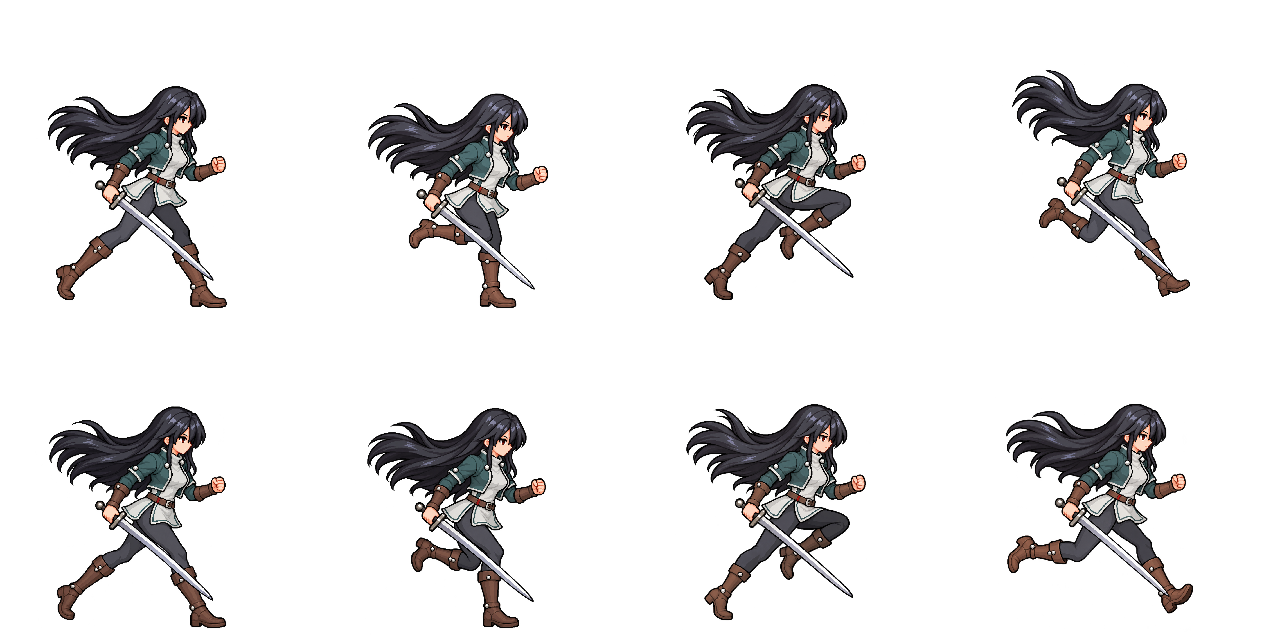
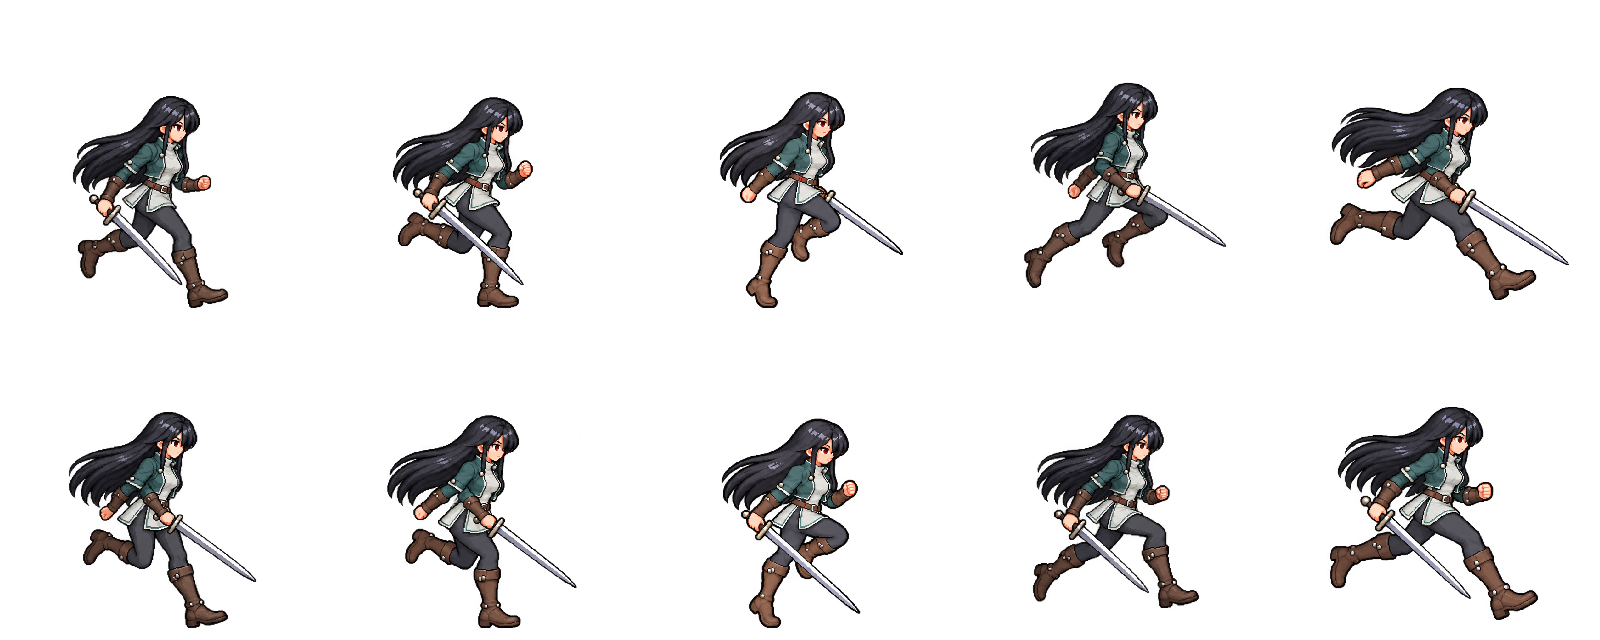
* 애니메이션 수정

diff --git a/ActionRPGClient/Assets/Images/README.md b/ActionRPGClient/Assets/Images/README.md
@@ -26,8 +26,8 @@
 
 확정 외형은 긴 흑발, 청록 재킷, 회백색 튜닉, 짙은 회색 하의, 갈색 가죽과 은색 장식, 한손 장검이다. 기본 인체 높이는 약 170 월드 단위로 기존 남성보다 작게 유지한다. 아래 순서로 한 동작씩 제작·검토한다.
 
-- [x] 걷기 — 4열×2행 8프레임, 10fps·0.8초 반복. 검은 일반 자세처럼 앞쪽 아래로 든다. 4프레임은 왼발 진입, 8프레임은 오른발 진입으로 양발을 교대한다.
-- [x] 달리기 — 4열×2행 8프레임, 약 14.3fps·0.56초 반복. 좌우 착지·지지·무릎 전진·공중 진입을 교대하며 긴 머리가 뒤로 흩날린다.
+- [x] 걷기 — 4열×2행 8프레임·0.60초 반복. 양발 착지·체중 흡수·통과·전진을 교대하고 빈팔은 반대로 흔든다. 검은 앞쪽 아래로 유지한다.
+- [x] 달리기 — 5열×2행 10프레임·0.50초 반복. 각 발의 착지·체중 흡수·발끝 밀기·공중 전환·다음 발 뻗기를 연결하고 팔과 긴 머리의 후행 움직임을 맞춘다.
 - [x] 점프 — 도약 준비 3장·상승/정점/하강 각 1장·착지/회복 4장, 총 10프레임. 긴 머리가 상승 시 아래로, 하강 시 위로 뜨고 착지 뒤 가라앉는다.
 - [x] 피격 — 3열×2행 6프레임, 기준 0.28초. 충격·최대 반동·반동 흡수·회복·안정화·기본 자세로 이어지며 긴 머리가 뒤늦게 따라온다.
 - [x] 에어본 — 띄워짐·상승·정점 3장과 낙하 유지 1장. 상승 시 머리가 아래로 뒤처지고 낙하 시 위로 뜨며 검을 계속 쥔다.
@@ -36,9 +36,9 @@
 - [x] 대시 공격 — 4열×2행 8프레임·기준 0.40초. 같은 앞발을 유지하며 허리 높이로 횡베기하고 뒤쪽 발로 제동한 뒤 기본 자세로 돌아온다.
 - [x] 기본 공격 — 화면 기준 ① 왼쪽→오른쪽 횡베기 ② 오른쪽→좌상단 올려베기 ③ 좌상단→우하단 내려베기 ④ 한 바퀴 회전 횡베기. 8·8·8·10프레임, 총 1.42초이며 타 사이 연결 자세를 공유한다.
 
-걷기와 정적 기준은 각각 [player_swordswoman_walk.png](Characters/player_swordswoman_walk.png), [player_swordswoman_idle.png](Characters/player_swordswoman_idle.png)다. 셀은 256×256, 공통 발 기준점은 (128,244), 표시 캔버스는 192×192다. 걷기 8장의 개별 원화에는 동일한 축소 배율을 적용했다. 발 기준점을 고정하고 무릎 굽힘에 따른 상하 움직임을 유지했으며 실제 그림 높이는 약 165.75~170.25 월드 단위다.
+걷기와 정적 기준은 각각 [player_swordswoman_walk.png](Characters/player_swordswoman_walk.png), [player_swordswoman_idle.png](Characters/player_swordswoman_idle.png)다. 걷기는 셀 320×320·기준점 (160,308)·표시 240×240으로 여백을 넓혔으며, 정적 기준은 기존 셀 256×256·기준점 (128,244)·표시 192×192를 유지한다. 실제 그림 배율은 모두 0.75배이고 원화의 정적 인체를 227픽셀로 맞춰 약 170월드 단위의 체형을 유지한다. 주 원화에는 227/498배 균일 축소를 적용했고 마지막 전진 자세는 반대쪽 전진 기준의 492×227/498픽셀 높이에 맞춘 817픽셀 기준 원화로 정렬했다. 프레임별 실루엣 높이를 강제로 맞추지 않는다. 재생 시간은 0.09·0.06·0.10·0.05초를 반주기마다 반복해 0.60초다. 마지막→처음 자세의 머리 높이를 맞추고 검의 앞쪽 방향과 빈팔의 반대 흔들림을 유지한다.
 
-달리기는 [player_swordswoman_run.png](Characters/player_swordswoman_run.png)다. 머리카락과 공중 동작의 여백을 포함해 셀은 320×320, 공통 지면 기준점은 (160,308), 표시 캔버스는 240×240이다. 8장 모두 동일한 0.18배 축소와 평행 이동만 적용했다. 표시 배율은 걷기와 같은 0.75배이며, 착지 프레임의 그림 높이는 약 166.5 월드 단위다. 공중 프레임은 지면으로 내리지 않고 발이 뜬 높이를 유지한다.
+달리기는 [player_swordswoman_run.png](Characters/player_swordswoman_run.png)다. 5열×2행 10장으로 확장했고 셀 320×320·기준점 (160,308)·표시 240×240은 유지한다. 원화 묶음의 정적 기준에 맞춰 각각 227/494·227/495·227/500배 균일 축소를 적용했다. 착지·체중 흡수·발끝 밀기·공중 전환·반대 발 뻗기의 5장을 양발에 교대로 배정한다. 공중 전환은 발끝을 기준선보다 20픽셀, 착지 직전 뻗기는 8픽셀 위에 유지하며 공중 프레임을 바닥으로 내리지 않는다. 각 반주기 시간은 0.055·0.060·0.045·0.045·0.045초로 총 0.50초다. 빈손을 계속 가슴에 고정하지 않고 앞뒤로 교대하며 머리카락은 큰 굴곡 대신 하나의 긴 흐름으로 유지한다. 걷기 280·달리기 480의 기준 이동 속도로 흐르는 바닥 미리보기에서 이전·수정 모션을 비교했다. 런타임의 공통 tempoScale은 이동과 재생에 동일하게 적용되며 이 자산 변경에서 이동 속도나 공통 코드는 수정하지 않았다.
 
 점프는 [도약 준비](Characters/player_swordswoman_jump_start.png) 3장, [상승](Characters/player_swordswoman_jump_rise.png)·[정점](Characters/player_swordswoman_jump_hold.png)·[하강](Characters/player_swordswoman_jump_fall.png) 각 1장, [착지/회복](Characters/player_swordswoman_jump_land.png) 4장으로 나눴다. 셀은 320×320, 기준점은 (160,296), 표시 캔버스는 240×240이며, 모든 원화에 동일한 227/366배 축소를 적용했다. 준비는 0.1초, 착지는 0.14초이고 공중 이동 높이는 별도 계산한다. `SwordswomanJumpStart`·`SwordswomanJumpRise`·`SwordswomanJumpHold`·`SwordswomanJumpFall`·`SwordswomanJumpLand`를 등록했다. Character4 연결에서는 수직 속도에 따라 상승/정점/하강을 전환하고 착지 동작을 한 번 재생한다.
 
